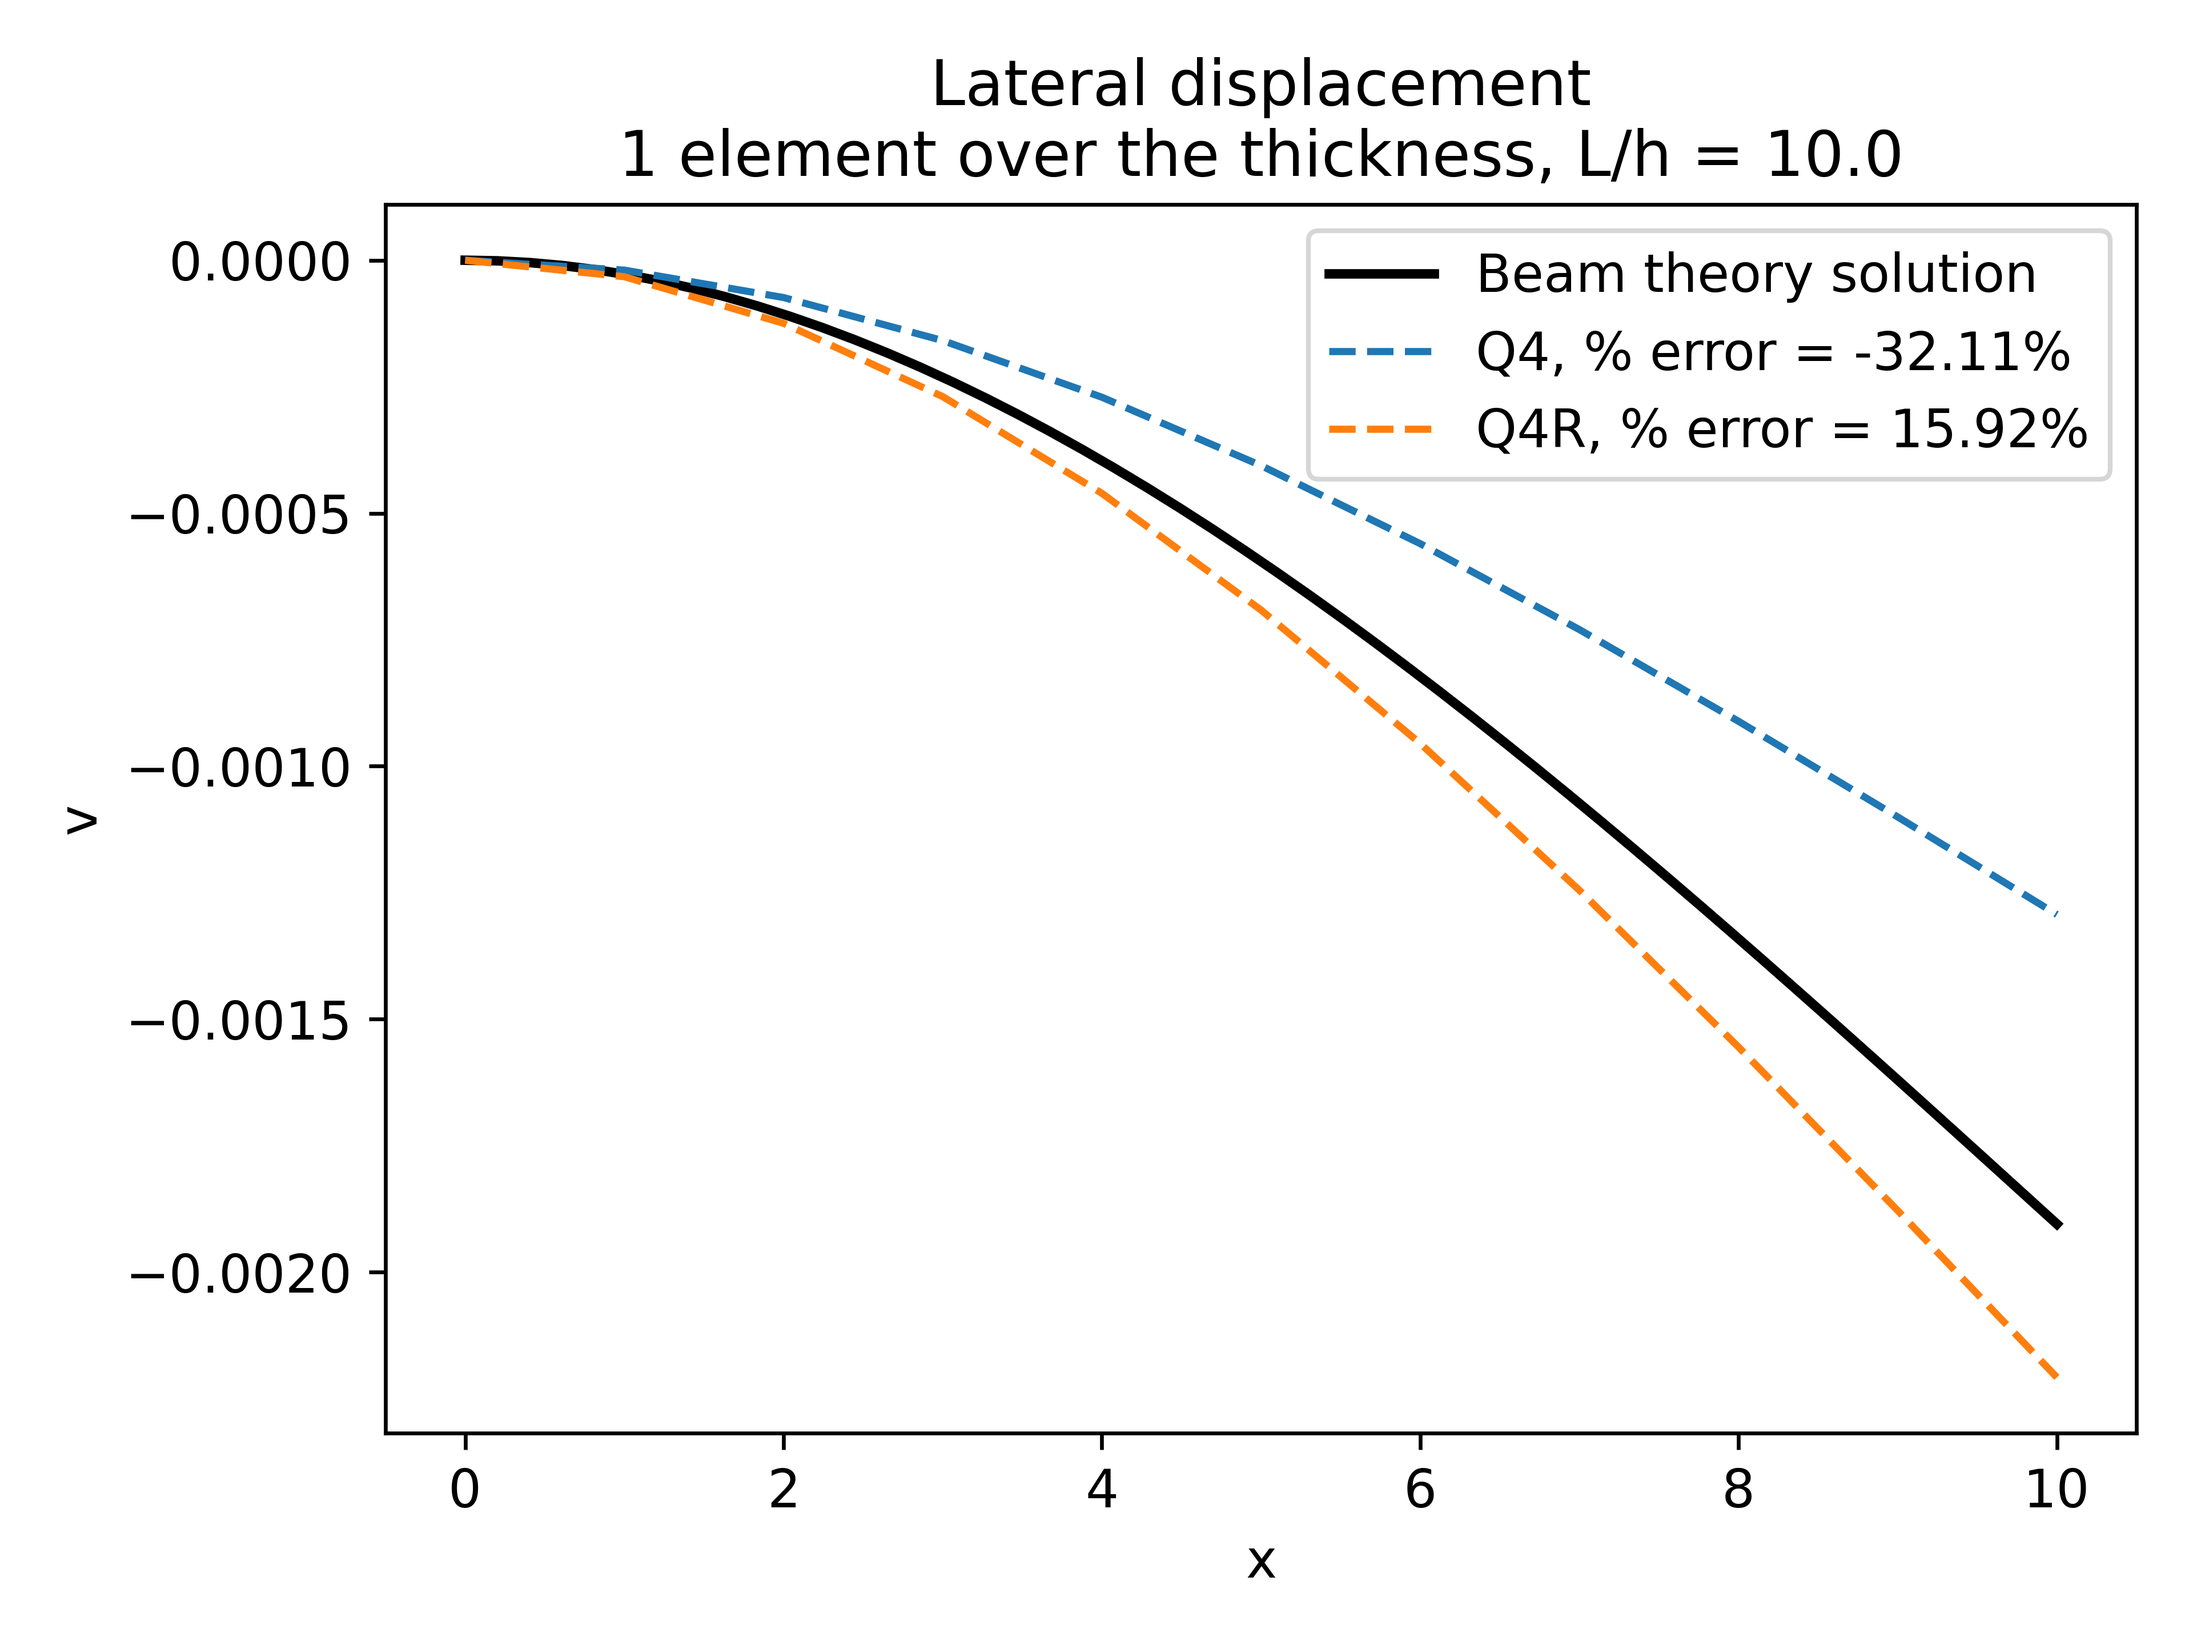
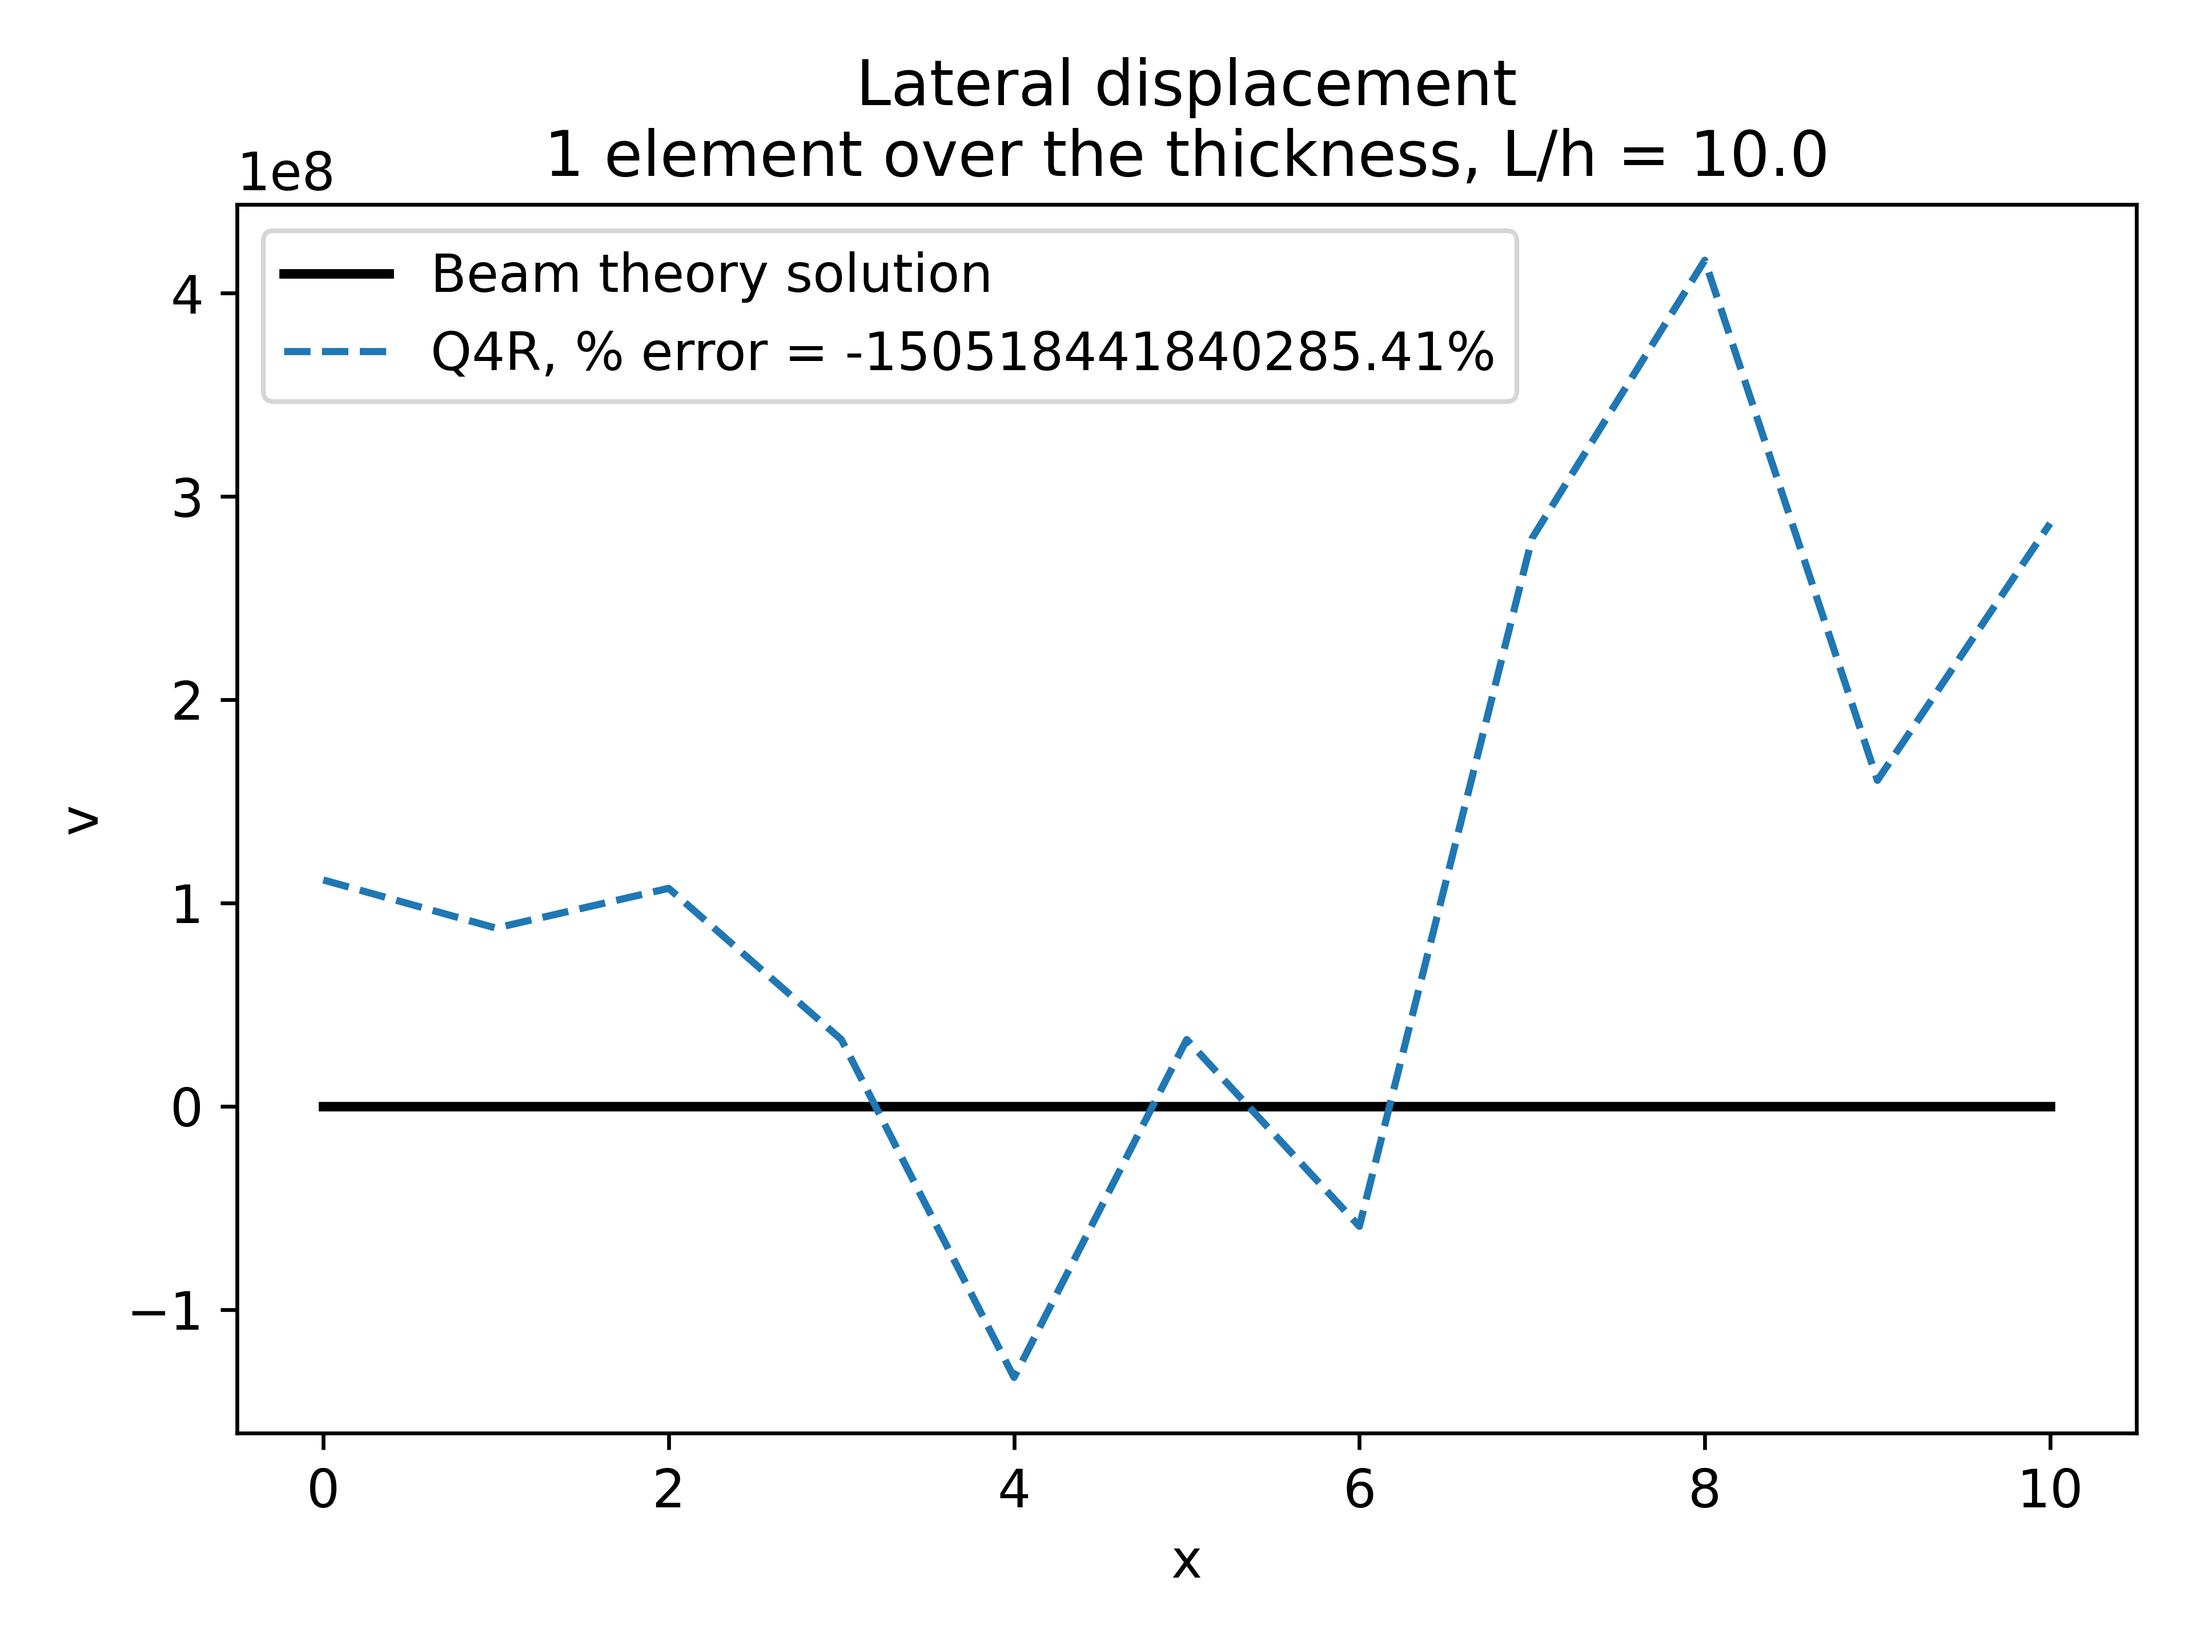
hourglass stiffness for Q4R verified against abaqus

diff --git a/main_beam_comparison.py b/main_beam_comparison.py
@@ -4,9 +4,9 @@ if __name__ == "__main__":
 
     E = 210e9  # Young's modulus
     nu = 0.3  # Poisson's ratio
-    Lx = 20  #Length in x-direction
+    Lx = 10  #Length in x-direction
     Ly = 1  #Length in y-direction
-    h = 0.1  # Length into the third dimension (out of plane thickness)
+    h = 1  # Length into the third dimension (out of plane thickness)
     F_tip = -10000  #Total force applied at the right edge. Will be applied as a vertical traction of magnitude F_tip/(h*Ly)
     problem_type = PROBLEM_TYPE_PLANE_STRESS  #Specify that a plane stress problem is solved
     # nEx = 10  #Number of elements in x-direction
@@ -18,9 +18,10 @@ if __name__ == "__main__":
 
     v_theory_tip = v_theory[-1]
 
-    hg_factor = 0.5
+    hg_factor = 0.0000001
+    hg_factor = 0.01
 
-    nEys = [3]  # [3, 6, 10]  # 10, 1]  #number of elements in y-direction
+    nEys = [4, 8]  # [3, 6, 10]  # 10, 1]  #number of elements in y-direction
     for nEy in nEys:
         if nEy == 1:
             tmp = "element"
@@ -49,7 +50,7 @@ if __name__ == "__main__":
             # Add fixed boundary condition  to the left edge called "west"
             #====================================================================
             add_boundary_condition(config, mesh, "west", DOF_U, 0)  #set u to 0
-            add_boundary_condition(config, mesh, "west", DOF_V, 0)  #set v to 0
+            add_boundary_condition(config, mesh, "south_west", DOF_V, 0)  #set v to 0
 
             #====================================================================
             # Assign the tip load as a traction on the right edge named "east"
@@ -89,6 +90,13 @@ if __name__ == "__main__":
             plt.plot(x_top_ordered, v_mid_ordered, label=label, linestyle="--")
             tip_disps.append(v_mid_ordered[-1])
 
+        print("\nTip displacements and relative errors:")
+        print("Tip displacement theory:", v_theory_tip)
+        for i, element_type in enumerate(element_types):
+            v_tip = tip_disps[i]
+            print(
+                f"{element_type_to_str[element_type]}: Tip displacement = {v_tip:.3e}, error percent: {((v_tip - v_theory_tip) * 100 / v_theory_tip):.4f}%"
+            )
         plt.xlabel("x")
         plt.ylabel("v")
         plt.legend()
@@ -97,14 +105,6 @@ if __name__ == "__main__":
         #increase dpi for better quality
 
         plt.savefig(name + ".png", dpi=600)
-
-        print("\nTip displacements and relative errors:")
-        print("Tip displacement theory:", v_theory_tip)
-        for i, element_type in enumerate(element_types):
-            v_tip = tip_disps[i]
-            print(
-                f"{element_type_to_str[element_type]}: Tip displacement = {v_tip:.6f}, error percent: {((v_tip - v_theory_tip) * 100 / v_theory_tip):.4f}%"
-            )
 
     #====================================================================
     # Start the GUI to visualize the results
